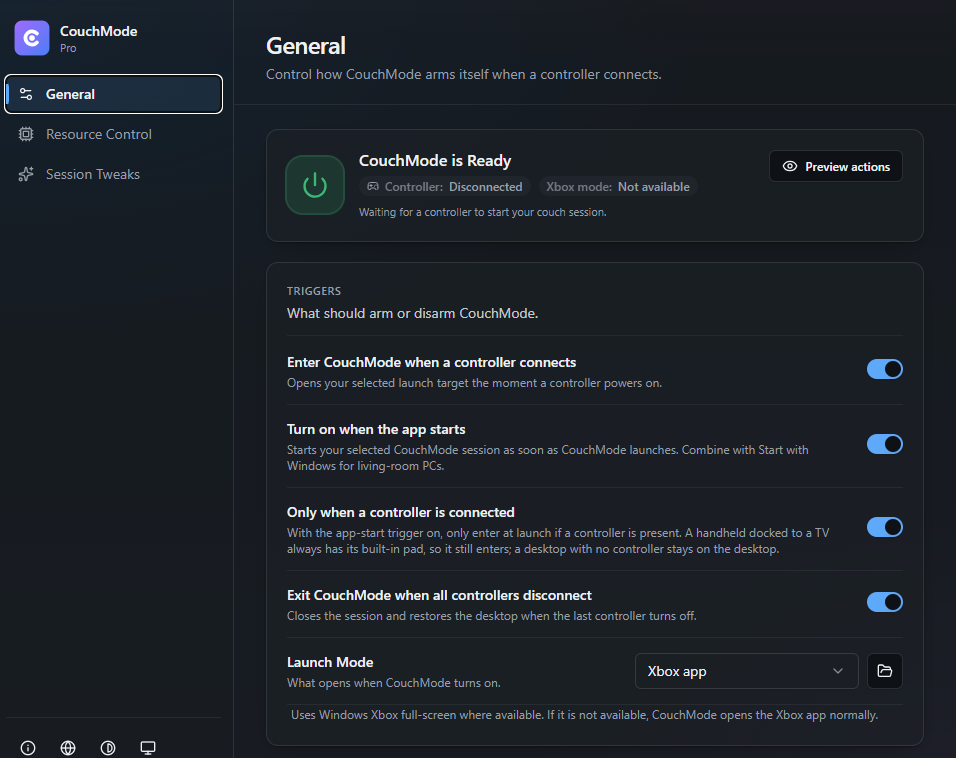
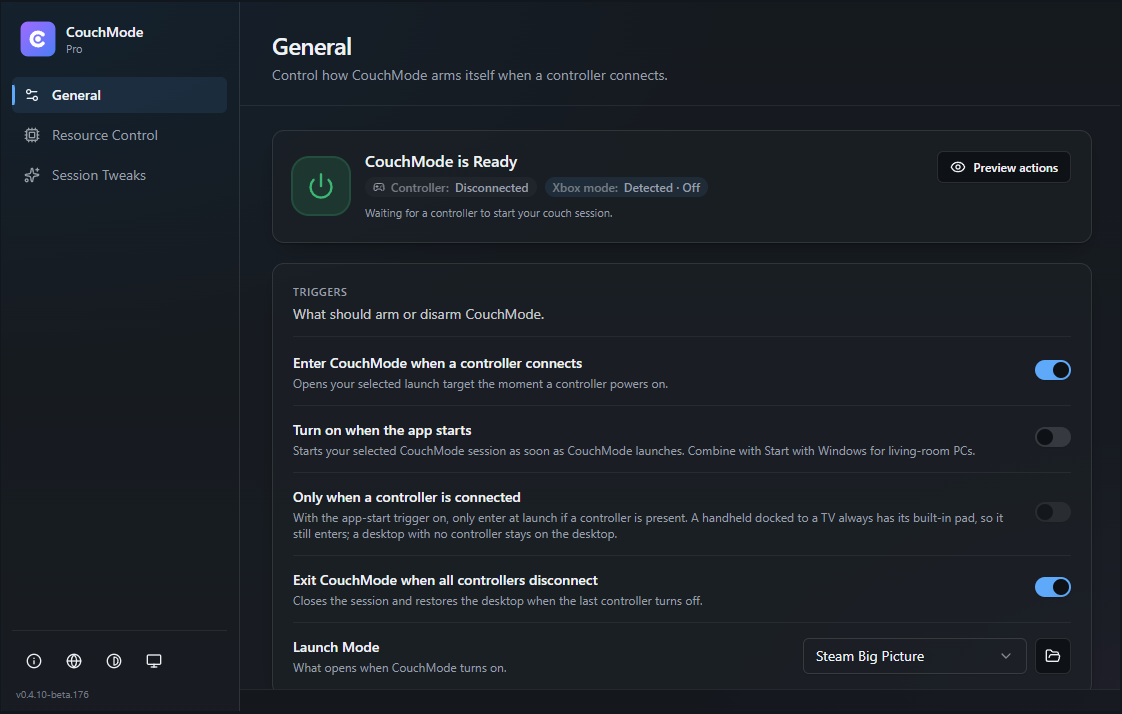
site: integrate authentic beta.176 screenshots
Replace outdated hero screenshots with eight authentic CouchMode Pro captures
from beta.176 (v0.4.10-beta.176 visible in each). Every image is normalized to a
single 1122x714 dark canvas, centered with symmetric padding, no crop or stretch,
so all slides and grid cells share identical dimensions.

Hero carousel (object-contain, four slides): General, Resource Control, Session
Tweaks, System Tray. New feature-detail grid (FeatureShots): General advanced
settings, Resource Control running-app selection, Resource Control after-session
actions, and Session Tweaks display, HDR, and audio. Accurate, non-marketing alt
text for every image.

Remove obsolete, now-unreferenced public assets: the old App Picker
(app-picker.png, couchmode-app-picker.webp) that exposed an installed-app list,
plus stale shot-*.png and couchmode-*.webp screenshots.

No application code, product claims, release metadata, downloads, or dependencies
changed. latest.json remains beta.45; build (8 routes) and release-safety pass.

diff --git a/src/components/landing/HeroShowcase.tsx b/src/components/landing/HeroShowcase.tsx
@@ -1,22 +1,31 @@
 import { useCallback, useEffect, useRef, useState } from "react";
 import useEmblaCarousel from "embla-carousel-react";
-import { ChevronLeft, ChevronRight, Gamepad2 } from "lucide-react";
+import { ChevronLeft, ChevronRight } from "lucide-react";
 
+// Authentic beta.176 captures, each normalized to a 1122x714 dark canvas so
+// every slide occupies the exact same space with no size jumping. The frame
+// aspect ratio matches the canvas (1122/714) and images use object-contain, so
+// the full screenshot stays visible and nothing meaningful is cropped.
 const slides = [
-  {
-    src: "/screenshots/app-resource-control.png",
-    label: "Resource Control",
-    alt: "CouchMode Resource Control: choose which desktop apps close before a session and reopen after.",
-  },
-  {
-    src: "/screenshots/app-picker.png",
-    label: "App Picker",
-    alt: "CouchMode app picker: pick the running apps to close for a couch session.",
-  },
   {
     src: "/screenshots/app-general.png",
     label: "General",
-    alt: "CouchMode General: arm CouchMode when a controller connects and pick your launcher.",
+    alt: "CouchMode General controller and launcher settings.",
+  },
+  {
+    src: "/screenshots/app-resource-control.png",
+    label: "Resource Control",
+    alt: "CouchMode Resource Control application cleanup settings.",
+  },
+  {
+    src: "/screenshots/app-session-tweaks.png",
+    label: "Session Tweaks",
+    alt: "CouchMode Session Tweaks performance and Windows settings.",
+  },
+  {
+    src: "/screenshots/app-tray.png",
+    label: "System Tray",
+    alt: "CouchMode system tray controls.",
   },
 ];
 
@@ -81,7 +90,7 @@ export function HeroShowcase() {
     >
       <div className="pointer-events-none absolute -inset-x-10 -top-10 bottom-0 rounded-[2.5rem] bg-gradient-to-br from-[var(--violet-accent)]/25 to-[var(--blue-accent)]/20 blur-3xl" />
 
-      <figure className="relative overflow-hidden rounded-2xl border border-white/10 bg-[oklch(0.14_0.02_270)] shadow-2xl shadow-black/60 glow-strong">
+      <figure className="relative overflow-hidden rounded-2xl border border-white/10 bg-[#12161d] shadow-2xl shadow-black/60 glow-strong">
         <div className="flex items-center gap-2 border-b border-white/10 bg-white/[0.02] px-4 py-2.5">
           <span className="h-2.5 w-2.5 rounded-full bg-white/15" />
           <span className="h-2.5 w-2.5 rounded-full bg-white/15" />
@@ -92,44 +101,29 @@ export function HeroShowcase() {
         </div>
 
         <div className="relative">
-          <div className="aspect-[16/10] w-full overflow-hidden" ref={emblaRef}>
+          {/* Frame aspect equals the shared 1122x714 canvas so slides never
+              resize between transitions; object-contain keeps every screenshot
+              fully visible with no cropping or stretching. */}
+          <div className="aspect-[1122/714] w-full overflow-hidden" ref={emblaRef}>
             <div className="flex h-full">
               {slides.map((s, i) => (
                 <div key={s.src} className="relative h-full min-w-0 flex-[0_0_100%]">
                   <img
                     src={s.src}
                     alt={s.alt}
-                    width={956}
-                    height={758}
+                    width={1122}
+                    height={714}
                     draggable={false}
                     // Only the first (default) slide is eager + high priority; the
                     // rest lazy-load so the hero ships one screenshot up front.
                     loading={i === 0 ? "eager" : "lazy"}
                     fetchPriority={i === 0 ? "high" : "low"}
                     decoding="async"
-                    className="h-full w-full select-none object-cover object-top"
+                    className="h-full w-full select-none bg-[#12161d] object-contain"
                   />
                 </div>
               ))}
             </div>
-          </div>
-
-          <div className="pointer-events-none absolute inset-x-0 bottom-0 h-20 bg-gradient-to-t from-[oklch(0.14_0.02_270)] to-transparent" />
-
-          {/* Connected-state micro moment */}
-          <div className="pointer-events-none absolute bottom-4 left-4 inline-flex items-center gap-2.5 rounded-xl border border-white/10 bg-black/40 px-3 py-2 backdrop-blur-md">
-            <span className="relative grid h-7 w-7 place-items-center rounded-full bg-aurora">
-              <span className="absolute inset-0 animate-[ping_2.6s_cubic-bezier(0,0,.2,1)_infinite] rounded-full bg-aurora opacity-40" />
-              <Gamepad2 className="relative h-3.5 w-3.5 text-primary-foreground" />
-            </span>
-            <span className="text-[11px] leading-tight">
-              <span className="block font-medium text-foreground">
-                Controller connected
-              </span>
-              <span className="block text-muted-foreground">
-                Launching couch mode…
-              </span>
-            </span>
           </div>
 
           <button

diff --git a/src/components/landing/FeatureShots.tsx b/src/components/landing/FeatureShots.tsx
@@ -1,0 +1,90 @@
+import { motion } from "framer-motion";
+
+// Authentic beta.176 detail captures, each normalized to the same 1122x714
+// dark canvas used by the hero so the grid stays orderly. object-contain keeps
+// every screenshot fully visible on desktop, tablet, and mobile.
+const shots = [
+  {
+    src: "/screenshots/app-general-advanced.png",
+    label: "General",
+    caption: "Startup and advanced settings",
+    alt: "CouchMode General startup and advanced settings.",
+  },
+  {
+    src: "/screenshots/app-resource-control-picker.png",
+    label: "Resource Control",
+    caption: "Running-app selection",
+    alt: "CouchMode running application selector.",
+  },
+  {
+    src: "/screenshots/app-resource-control-after.png",
+    label: "Resource Control",
+    caption: "After-session actions",
+    alt: "CouchMode Resource Control after-session actions.",
+  },
+  {
+    src: "/screenshots/app-session-tweaks-display.png",
+    label: "Session Tweaks",
+    caption: "Display, HDR, and audio",
+    alt: "CouchMode HDR, display and audio settings.",
+  },
+];
+
+export function FeatureShots() {
+  return (
+    <section
+      id="screens"
+      className="relative py-20 sm:py-28"
+      aria-labelledby="screens-heading"
+    >
+      <div className="mx-auto max-w-6xl px-4 sm:px-6 lg:px-8">
+        <div className="mb-12 max-w-2xl">
+          <p className="mb-4 text-sm font-medium text-aurora">A closer look</p>
+          <h2
+            id="screens-heading"
+            className="text-3xl font-semibold leading-tight tracking-tight sm:text-4xl"
+          >
+            More of the Pro settings, straight from the app.
+          </h2>
+          <p className="mt-4 text-muted-foreground">
+            These are real CouchMode screens, not mockups.
+          </p>
+        </div>
+
+        <div className="grid gap-6 sm:grid-cols-2">
+          {shots.map((s, i) => (
+            <motion.figure
+              key={s.src}
+              initial={{ opacity: 0, y: 24 }}
+              whileInView={{ opacity: 1, y: 0 }}
+              viewport={{ once: true, margin: "-80px" }}
+              transition={{ duration: 0.5, delay: (i % 2) * 0.06 }}
+              className="overflow-hidden rounded-2xl border border-white/10 bg-[#12161d] shadow-xl shadow-black/40"
+            >
+              <div className="aspect-[1122/714] w-full">
+                <img
+                  src={s.src}
+                  alt={s.alt}
+                  width={1122}
+                  height={714}
+                  loading="lazy"
+                  decoding="async"
+                  draggable={false}
+                  className="h-full w-full select-none bg-[#12161d] object-contain"
+                />
+              </div>
+              <figcaption className="flex items-baseline gap-2 border-t border-white/10 px-4 py-3">
+                <span className="text-sm font-medium text-foreground">
+                  {s.label}
+                </span>
+                <span className="text-sm text-muted-foreground">
+                  {s.caption}
+                </span>
+              </figcaption>
+            </motion.figure>
+          ))}
+        </div>
+      </div>
+    </section>
+  );
+}

diff --git a/src/routes/index.tsx b/src/routes/index.tsx
@@ -3,6 +3,7 @@ import { Navbar } from "@/components/landing/Navbar";
 import { Hero } from "@/components/landing/Hero";
 import { Problem } from "@/components/landing/Problem";
 import { HowItWorks } from "@/components/landing/HowItWorks";
+import { FeatureShots } from "@/components/landing/FeatureShots";
 import { Comparison } from "@/components/landing/Comparison";
 import { SearchIntentFAQ, faqs } from "@/components/landing/SearchIntentFAQ";
 import { FinalCTA } from "@/components/landing/FinalCTA";
@@ -98,6 +99,7 @@ function Index() {
         <Hero />
         <Problem />
         <HowItWorks />
+        <FeatureShots />
         <Comparison />
         <FinalCTA />
         <SearchIntentFAQ />
